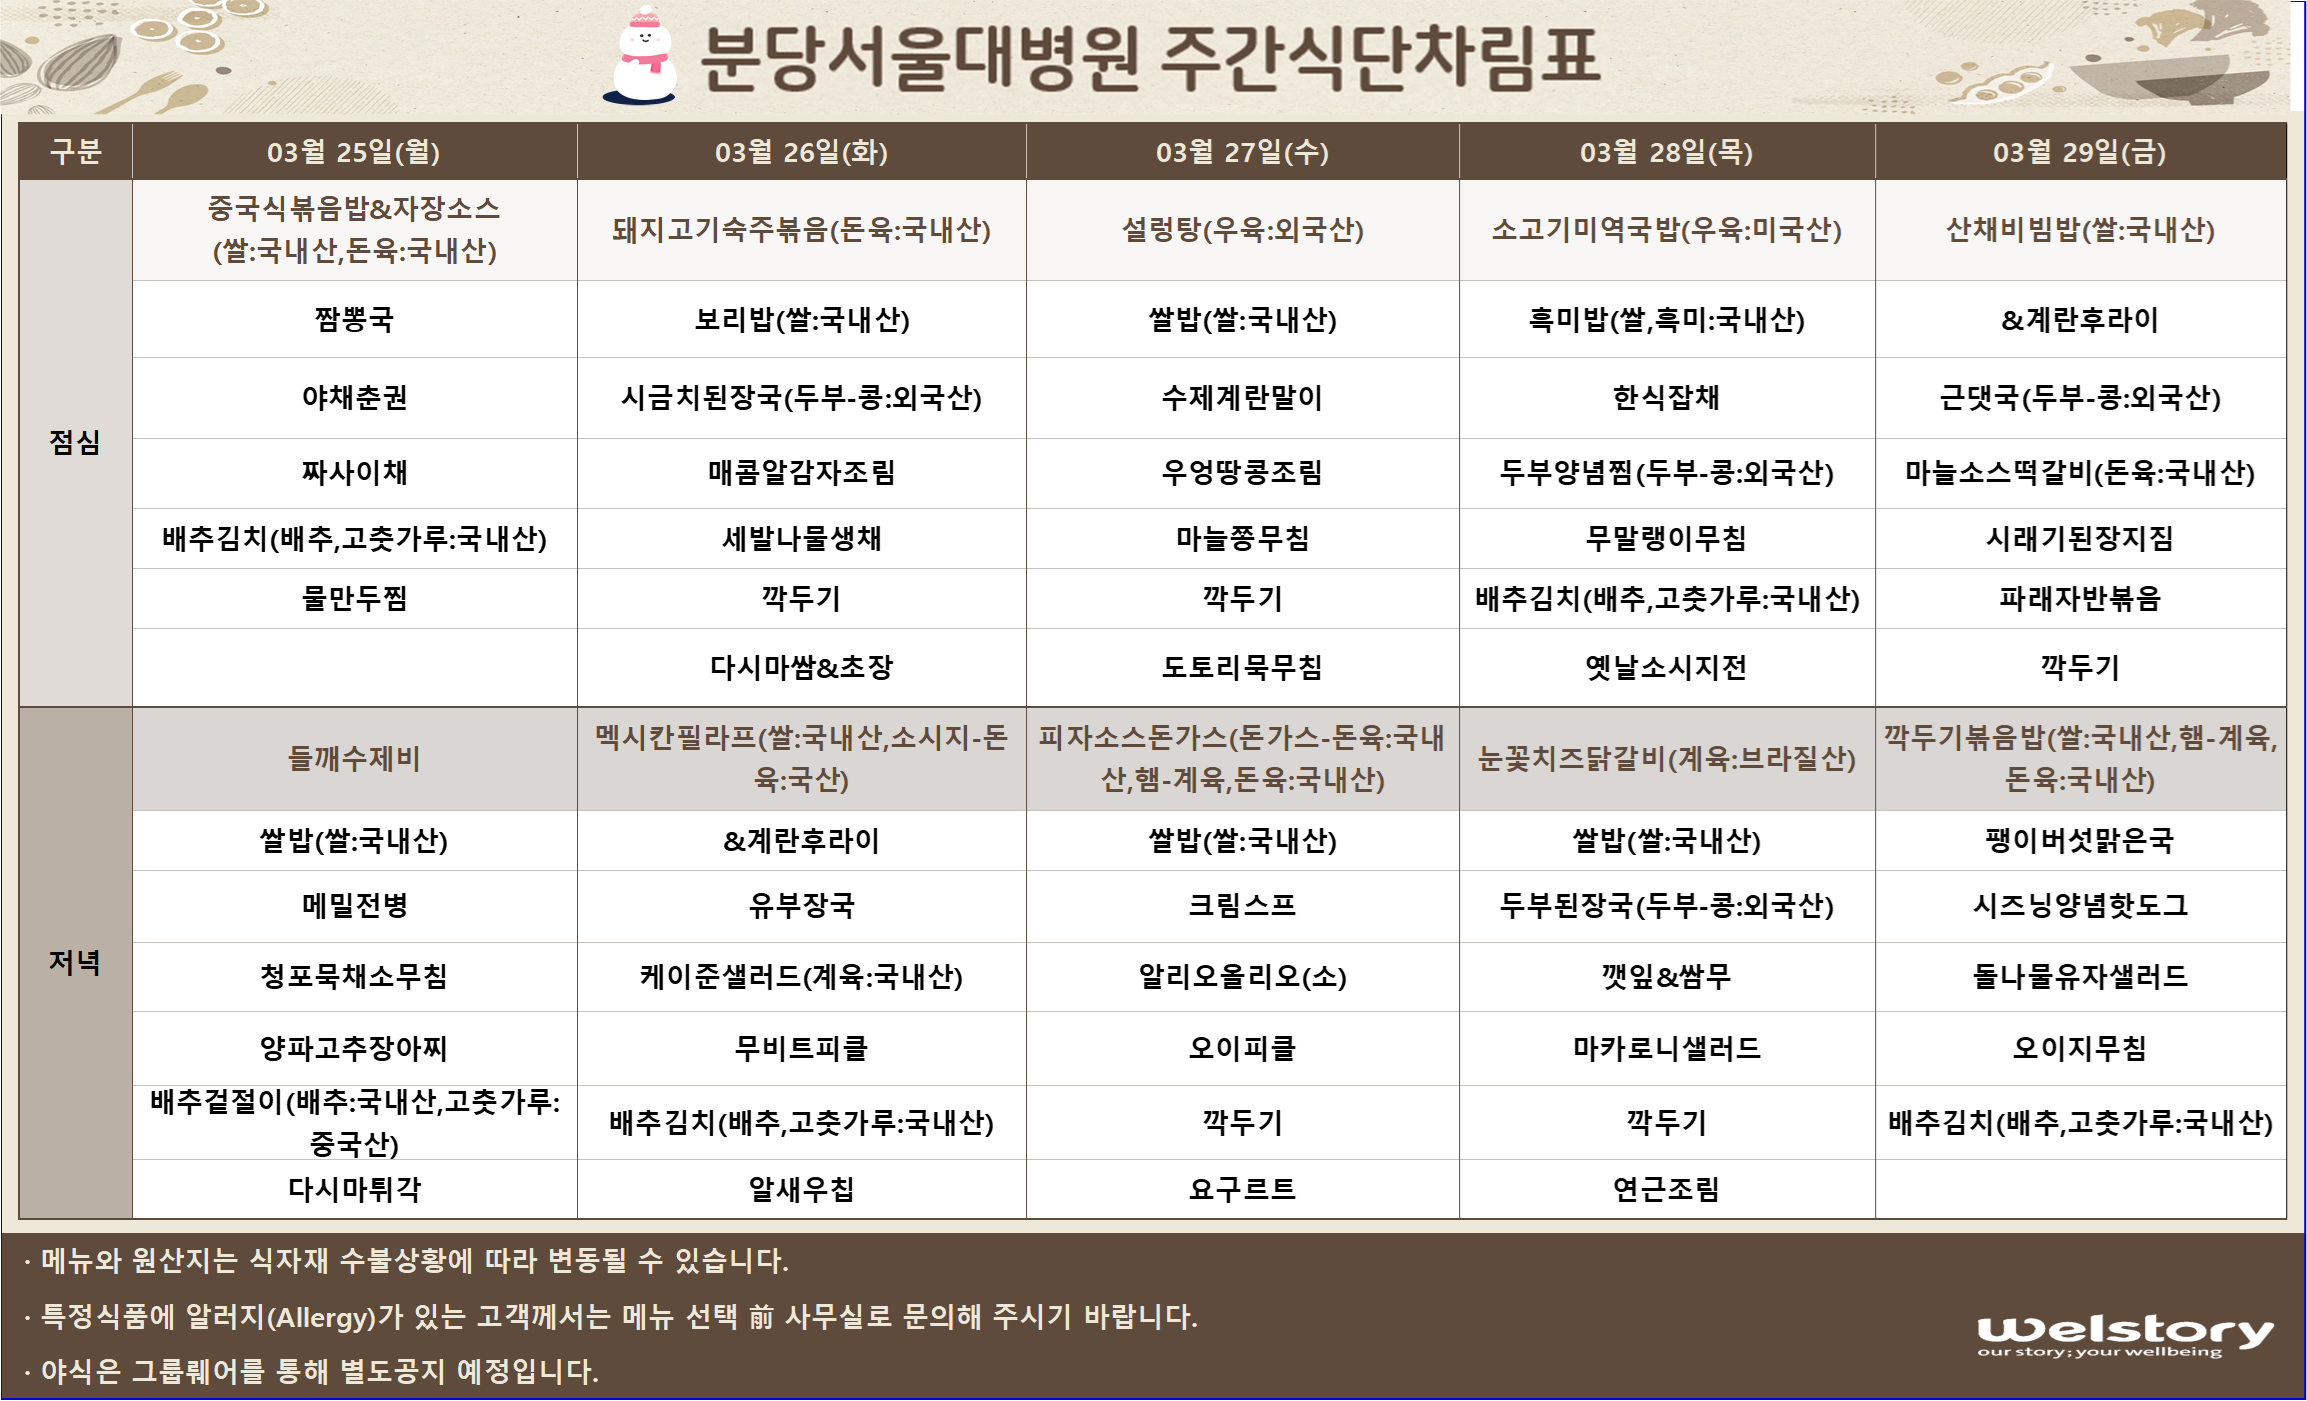
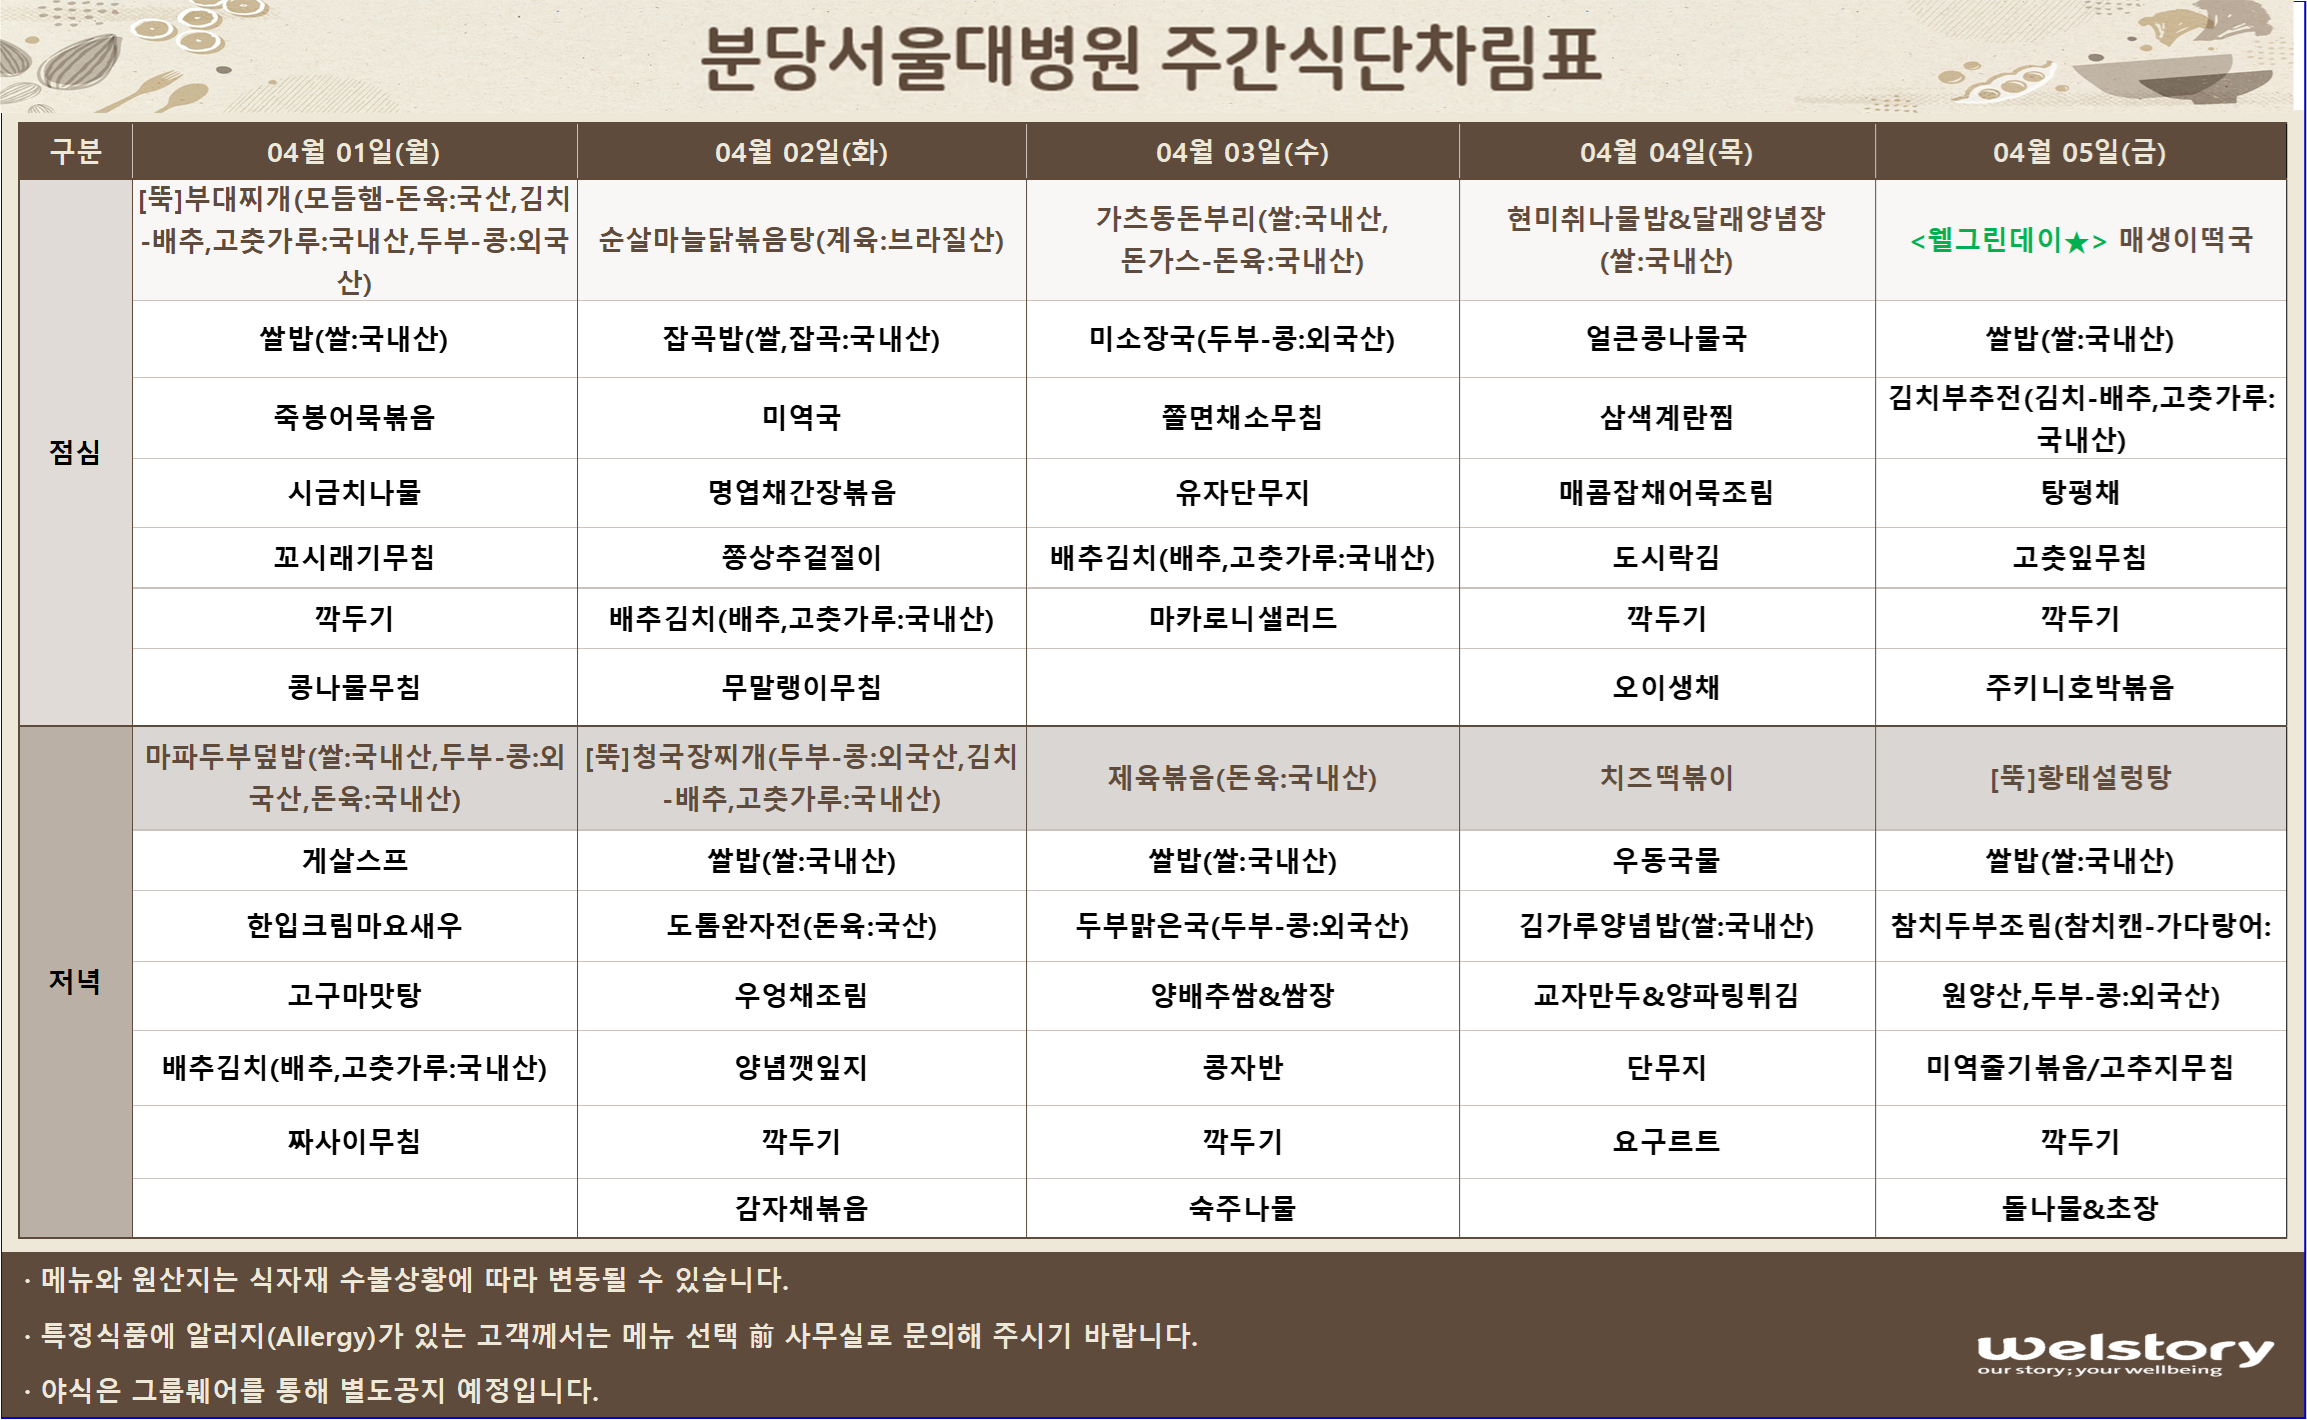
Add files via upload

diff --git a/6/index.html b/6/index.html
@@ -12,13 +12,13 @@
 <h2> 메뉴 업데이트는 주인장 여유가 되면 합니다. (이미지 확대해서 보세요) <br> </h2>
 
 <br>
-<h1> 3월 4주차 </h1>
+<h1> 4월 1주차 </h1>
 <img src="수술.png" width="100%">
 <br>
 
 
 
-<h6> Last update 2024/03/25  </h6>  
+<h6> Last update 2024/04/01  </h6>  
 <h1 >맛있게 드세요.  </h1> 
 
 </body>

diff --git a/1/index.html b/1/index.html
@@ -13,14 +13,14 @@
 
 
 <br>
-<h1> 3월 4주차  </h1>
+<h1> 4월 1주차  </h1>
 <img src="1동.png" width="100%">
 <br>
 
 
 
 
-<h6> Last update 2024/03/25  </h6>  
+<h6> Last update 2024/04/01  </h6>  
 <h1 >맛있게 드세요.  </h1> 
 
 </body>

diff --git a/2/index.html b/2/index.html
@@ -13,13 +13,13 @@
 
 
 <br>
-<h1> 3월 4주차  </h1>
+<h1> 4월 1주차  </h1>
 <img src="HIP.png" width="100%">
 <br>
 
 
 
-<h6> Last update 2024/03/25  </h6>  
+<h6> Last update 2024/04/01  </h6>  
 <h1 >맛있게 드세요.  </h1> 
 
 </body>
